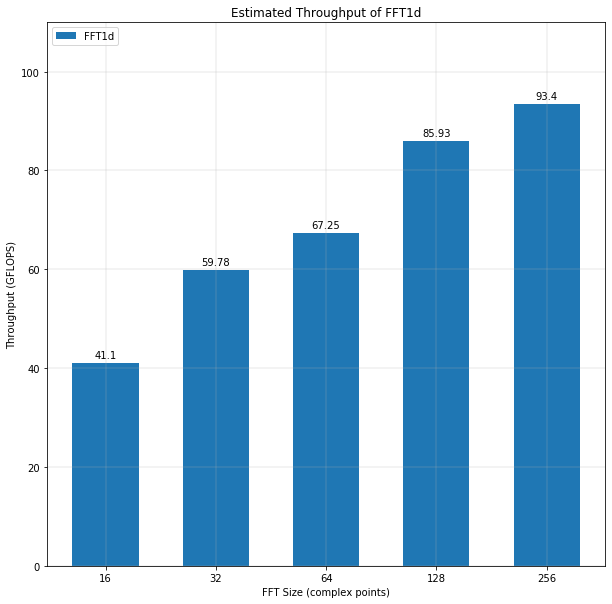
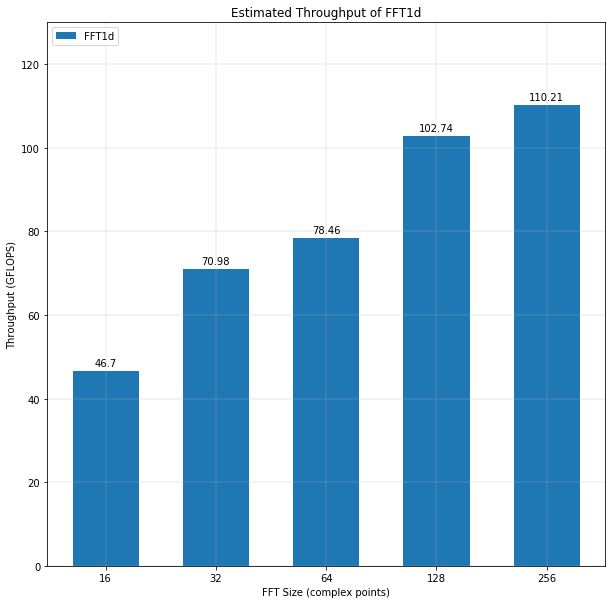
fft1d model v1.2 - added descriptions to formulae

diff --git a/docs/README.md b/docs/README.md
@@ -1,38 +1,77 @@
 # Modelling the performance of FFT3d
 
-Performance of FFT3d is dependent on the performance of its building block the FFT1d kernels.
+Performance of FFT3d is dependent on the performance of its building blocks - FFT1d kernels.
 
 ## Modelling Throughput of FFT1d Kernel
 
-Floating point operations in the kernel:
+FFT1d kernel modelled here can be found in the Intel OpenCL Design Samples. The design follows the radix 2<sup>2</sup> FFT architecture, which consists of the following:
 
-1. Butterfly
+1. logN radix-2 butterflies
+2. trivial rotations at every even stage
+3. non-trivial rotations at every odd stage. This is the twiddle factor multiplication computed after the stage's butterfly.
+4. shuffling using shift registers
 
-    8 complex floating points as input.
-    Performs 8 floating point additions and 8 floating point subtractions.
-    For an N point FFT, there are logN stages that the N points require for an FFT. Each stage performs an 8 point butterfly. Therefore, for N points, there are **logN** butterflies. This makes
+In order to calculate an N-point FFT, the design inputs 8 complex points per cycle in a bit reversed order. This requires `N / 8` cycles to store the N points into a shift register. Each point requires `logN` stages to complete the transformation. After a delay of `N / 8 - 1` cycles, 8 complex points are output per cycle for `N / 8` cycles.
 
-        logN * 16 flops for butterflies
+Example of the design:
 
+TODO: image
 
-2. Complex Rotations or multiplications with twiddle factors
+### Butterfly
 
-    8 complex floating points as input.
-    Performs 4 dot products per multiplication with twiddle factor.
-    There are a total of 6 multiplications because point 0 and N / 2 multiply by 1. There are **logN - 1 / 2** complex rotates. This makes
+- FFT kernel performs radix-2 butterflies. Considering 8 points of input, 4 parallel butterflies are performed at every stage.
 
-        floor(logN - 1 / 2) * 6
+- There are `logN stages` i.e. `logN * 4` butterflies.
 
-Total number of floating point operations performed by N point FFT
+#### Radix-2 butterfly
 
-        num_flops = (logN * 16) + floor((logN - 1) / 2) * 6 
+- 2 complex floating points as input and output.
 
-Considering these stages are pipelined, for a given frequency
+- Floating point addition of the complex points for the first output point and floating subtraction for the second. Considering these are complex points, this makes for 2 additions and 2 subtractions per butterfly.
 
-        throughput = num_flops * clock_freq
-                  = ((logN * 16) + floor((logN - 1) / 2) * 6)  * clock_freq
+TODO: image
 
-#### Number of DSPs used for different FFT sizes.
+Therefore, each stage has `2 * 4` floating point additions and `2 * 4` floating point subtractions, with a total of:
+
+        logN * 8 floating point additions 
+        logN * 8 floating point subtractions
+
+### Complex Rotations
+
+As mentioned above, every odd stage until `logN -1` stages perform a complex rotation. This involves multiplying the points with the twiddle factors. The twiddle factors are pre-calculated and stored; every stage looks up the value based on the stage and the index values. The number of complex rotations in a N-point FFT can be expressed using this formula:
+
+$$ floor((logN - 1) / 2) $$
+
+In a complex rotation of 8 input points, every point except Point 0 and Point 4 are multiplied with distinct twiddle factors, since these points are multiplied by 1. Complex multiplication follows the formula:
+
+$$ (x+yi)(a+bi) = (xa - yb) + (xb + ya)i $$
+
+Each complex multiplication comprises of 4 floating point multiplications, 1 floating point subtraction and 1 floating point addition as described in the code sample below.
+
+        float2 comp_mult(float2 a, float2 b) {
+                float2 res;
+                res.x = a.x * b.x - a.y * b.y;
+                res.y = a.x * b.y + a.y * b.x;
+                return res;
+        }
+
+The number of floating point operations:
+
+        floor((logN - 1) / 2) complex rot * 6 mult per rot * 6 flops per multiplication 
+
+$$ floor((logN - 1) / 2) * 36 $$
+
+This can be mapped to two dot product computations of size 2. For the 6 complex multiplications in a complex rotation, this is a total of 12 dot products (of size 2). Each dot product is implemented by a specific hardened floating point dot product DSP. Considering the size of dot product is 2, 2 DSPs are required. The total number of DSPs required for all complex rotations of N point FFT can be mapped by the formula:
+
+        floor((logN - 1) / 2) rot * 6 mult * 2 dot products * 2 size
+
+### DSP Usage
+
+Total number of DSPs required by N-point FFT:
+
+$$ (logN * 16) + floor((logN - 1) / 2) * 24 $$
+
+Estimating DSP required for different FFT sizes:
 
 | FFT Size | # DSPs |
 |:--------:|:------:|
@@ -42,12 +81,19 @@ Considering these stages are pipelined, for a given frequency
 |    128   |   184  |
 |    256   |   200  |
 
-#### Throughput
+### Throughput
 
-Modelled for clock frequency of 467 MHz assuming hyperflex is turned on. 
+Total number of floating point operations is a total of the number of butterflies and the number of complex rotations:
+
+        num_flops = ((logN * 16) + floor((logN - 1) / 2) * 36) 
+
+Considering logN stages are pipelined, for maximum frequency:
+
+        throughput = num_flops * clock_freq
+                  = ((logN * 16) + floor((logN - 1) / 2) * 6)  * clock_freq
+
+Modelled for clock frequency of 467 MHz assuming hyperflex is turned on.
 
 ![Throughput for different FFT1d Sizes](common/fft1d_throughput.png)
-
-TODO: Is a dot product considered as 3 flops?
 
 **Note**: The FFT1d building block kernel used to implement FFT3d is the one provided in the Intel's design samples. The input and the output to the FFT1d kernel are both in bit-reversed order, the latter entails the need to perform another bit reversal to obtain the standard FFT output.
